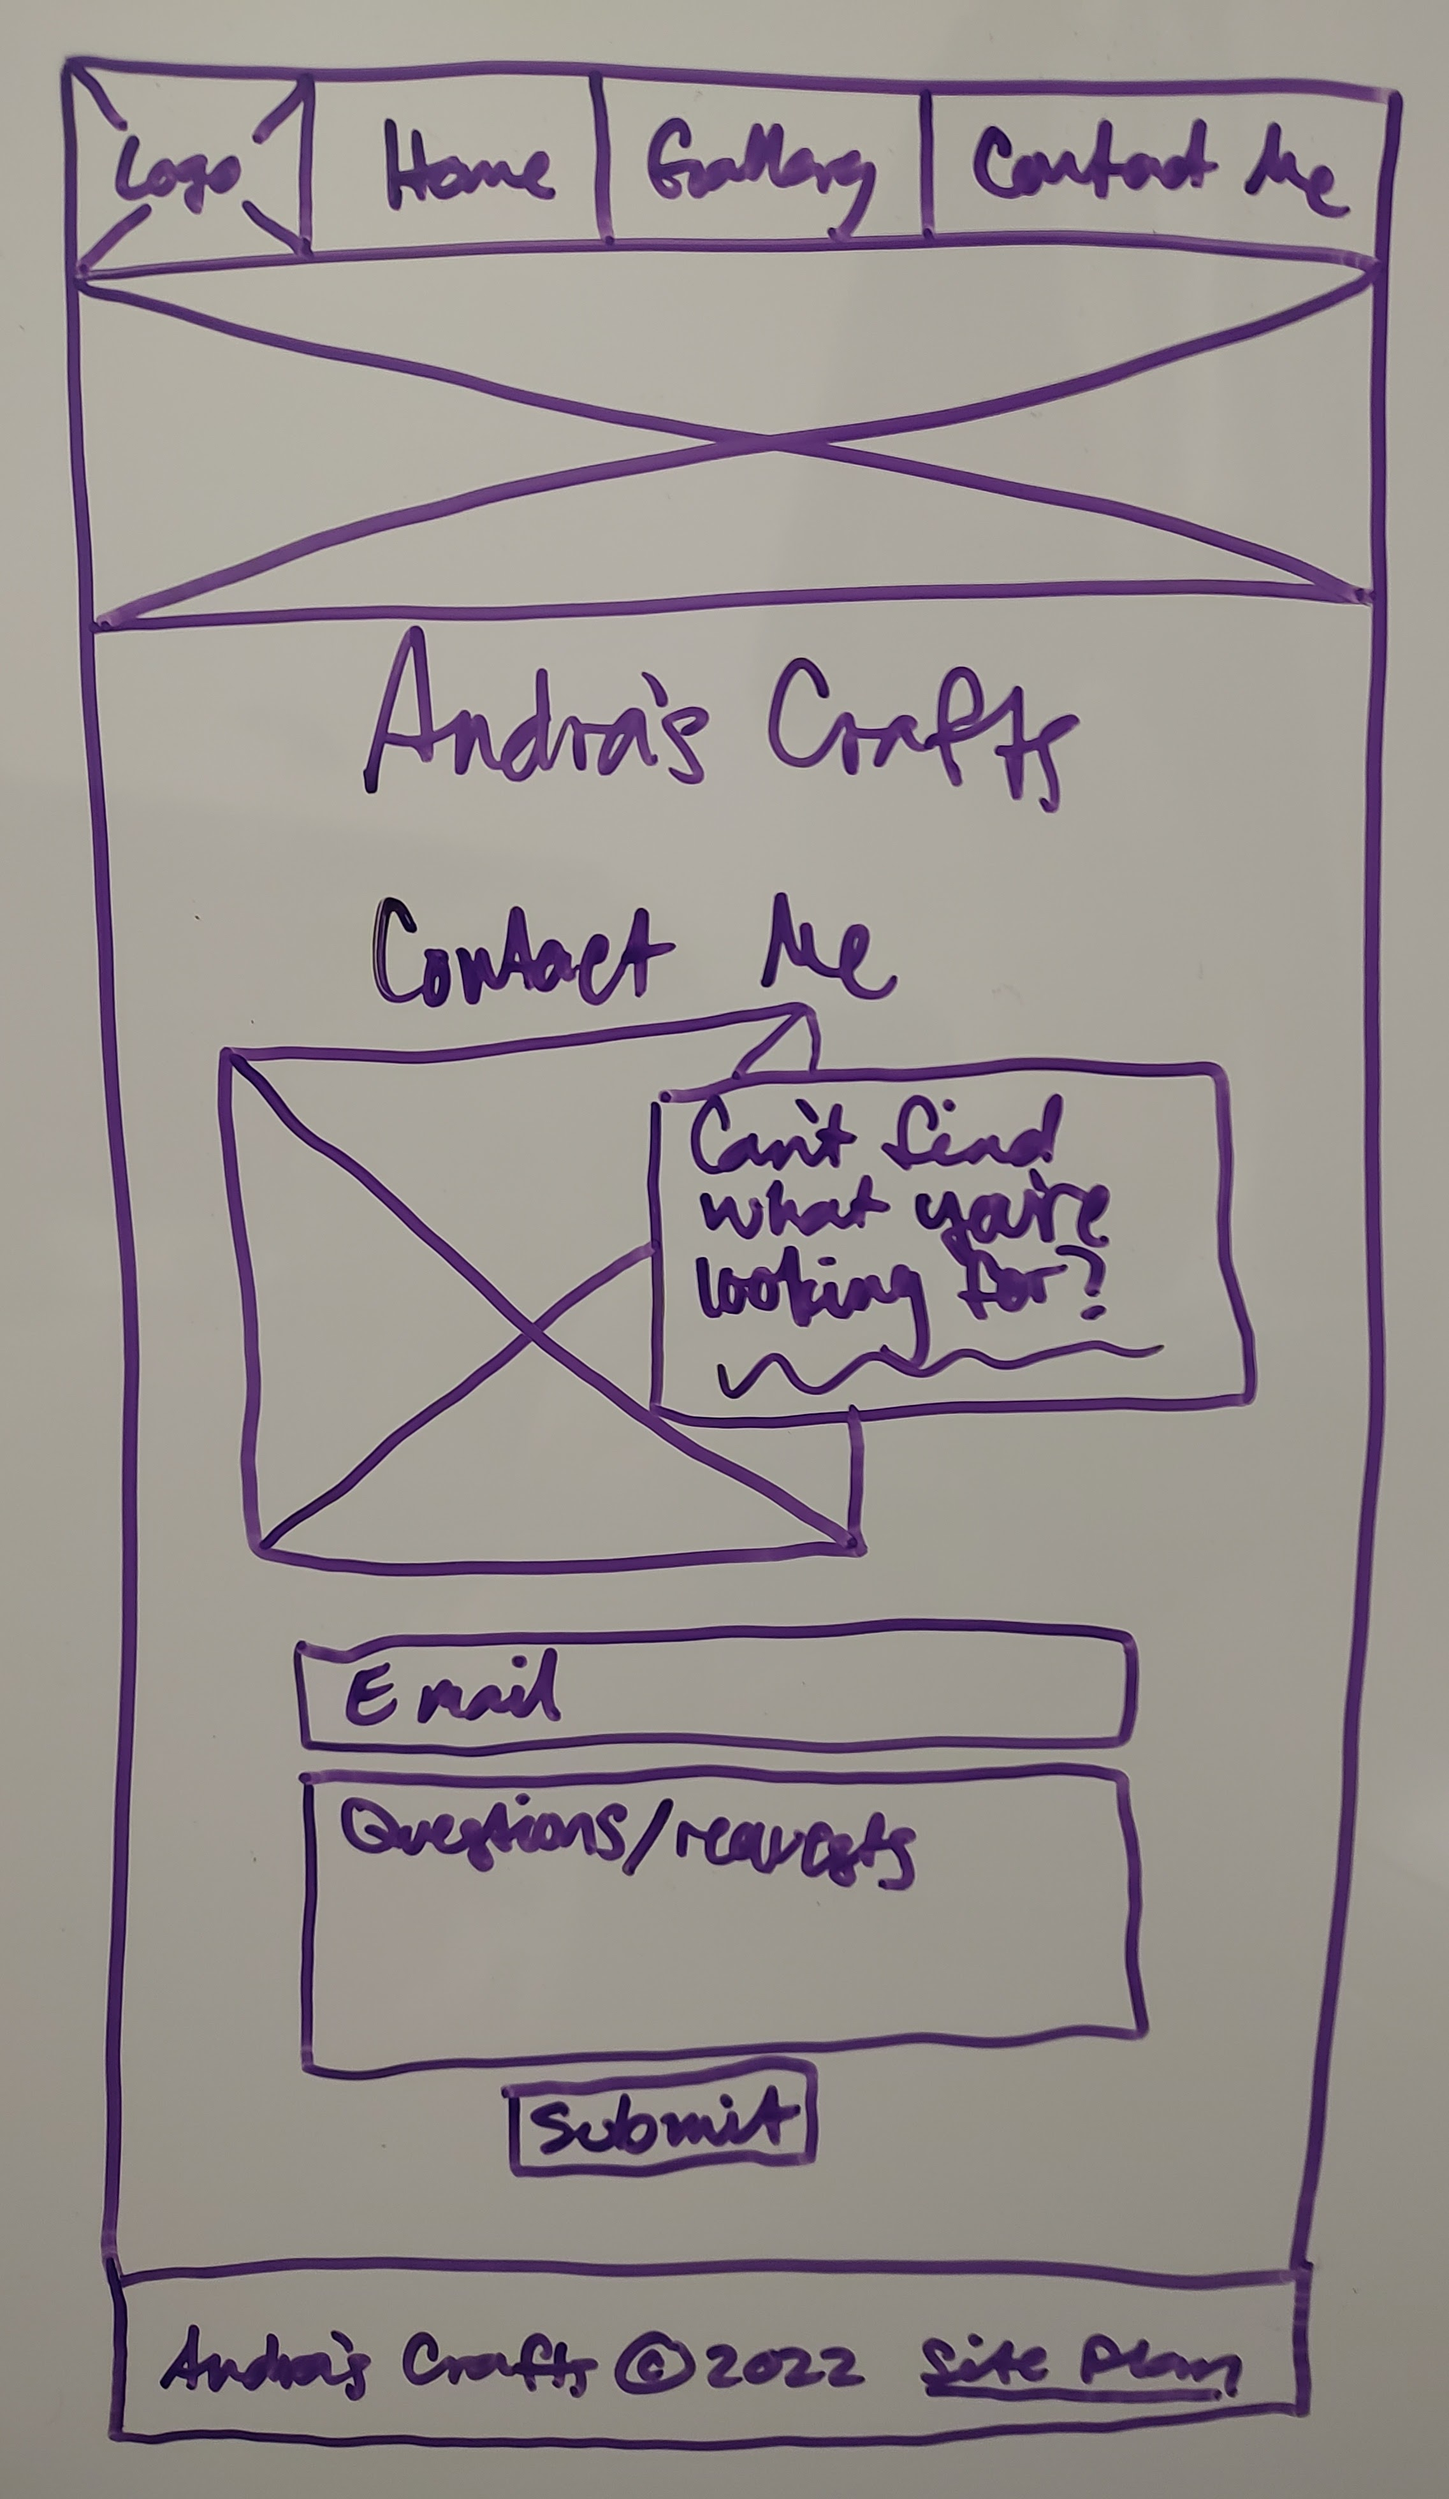
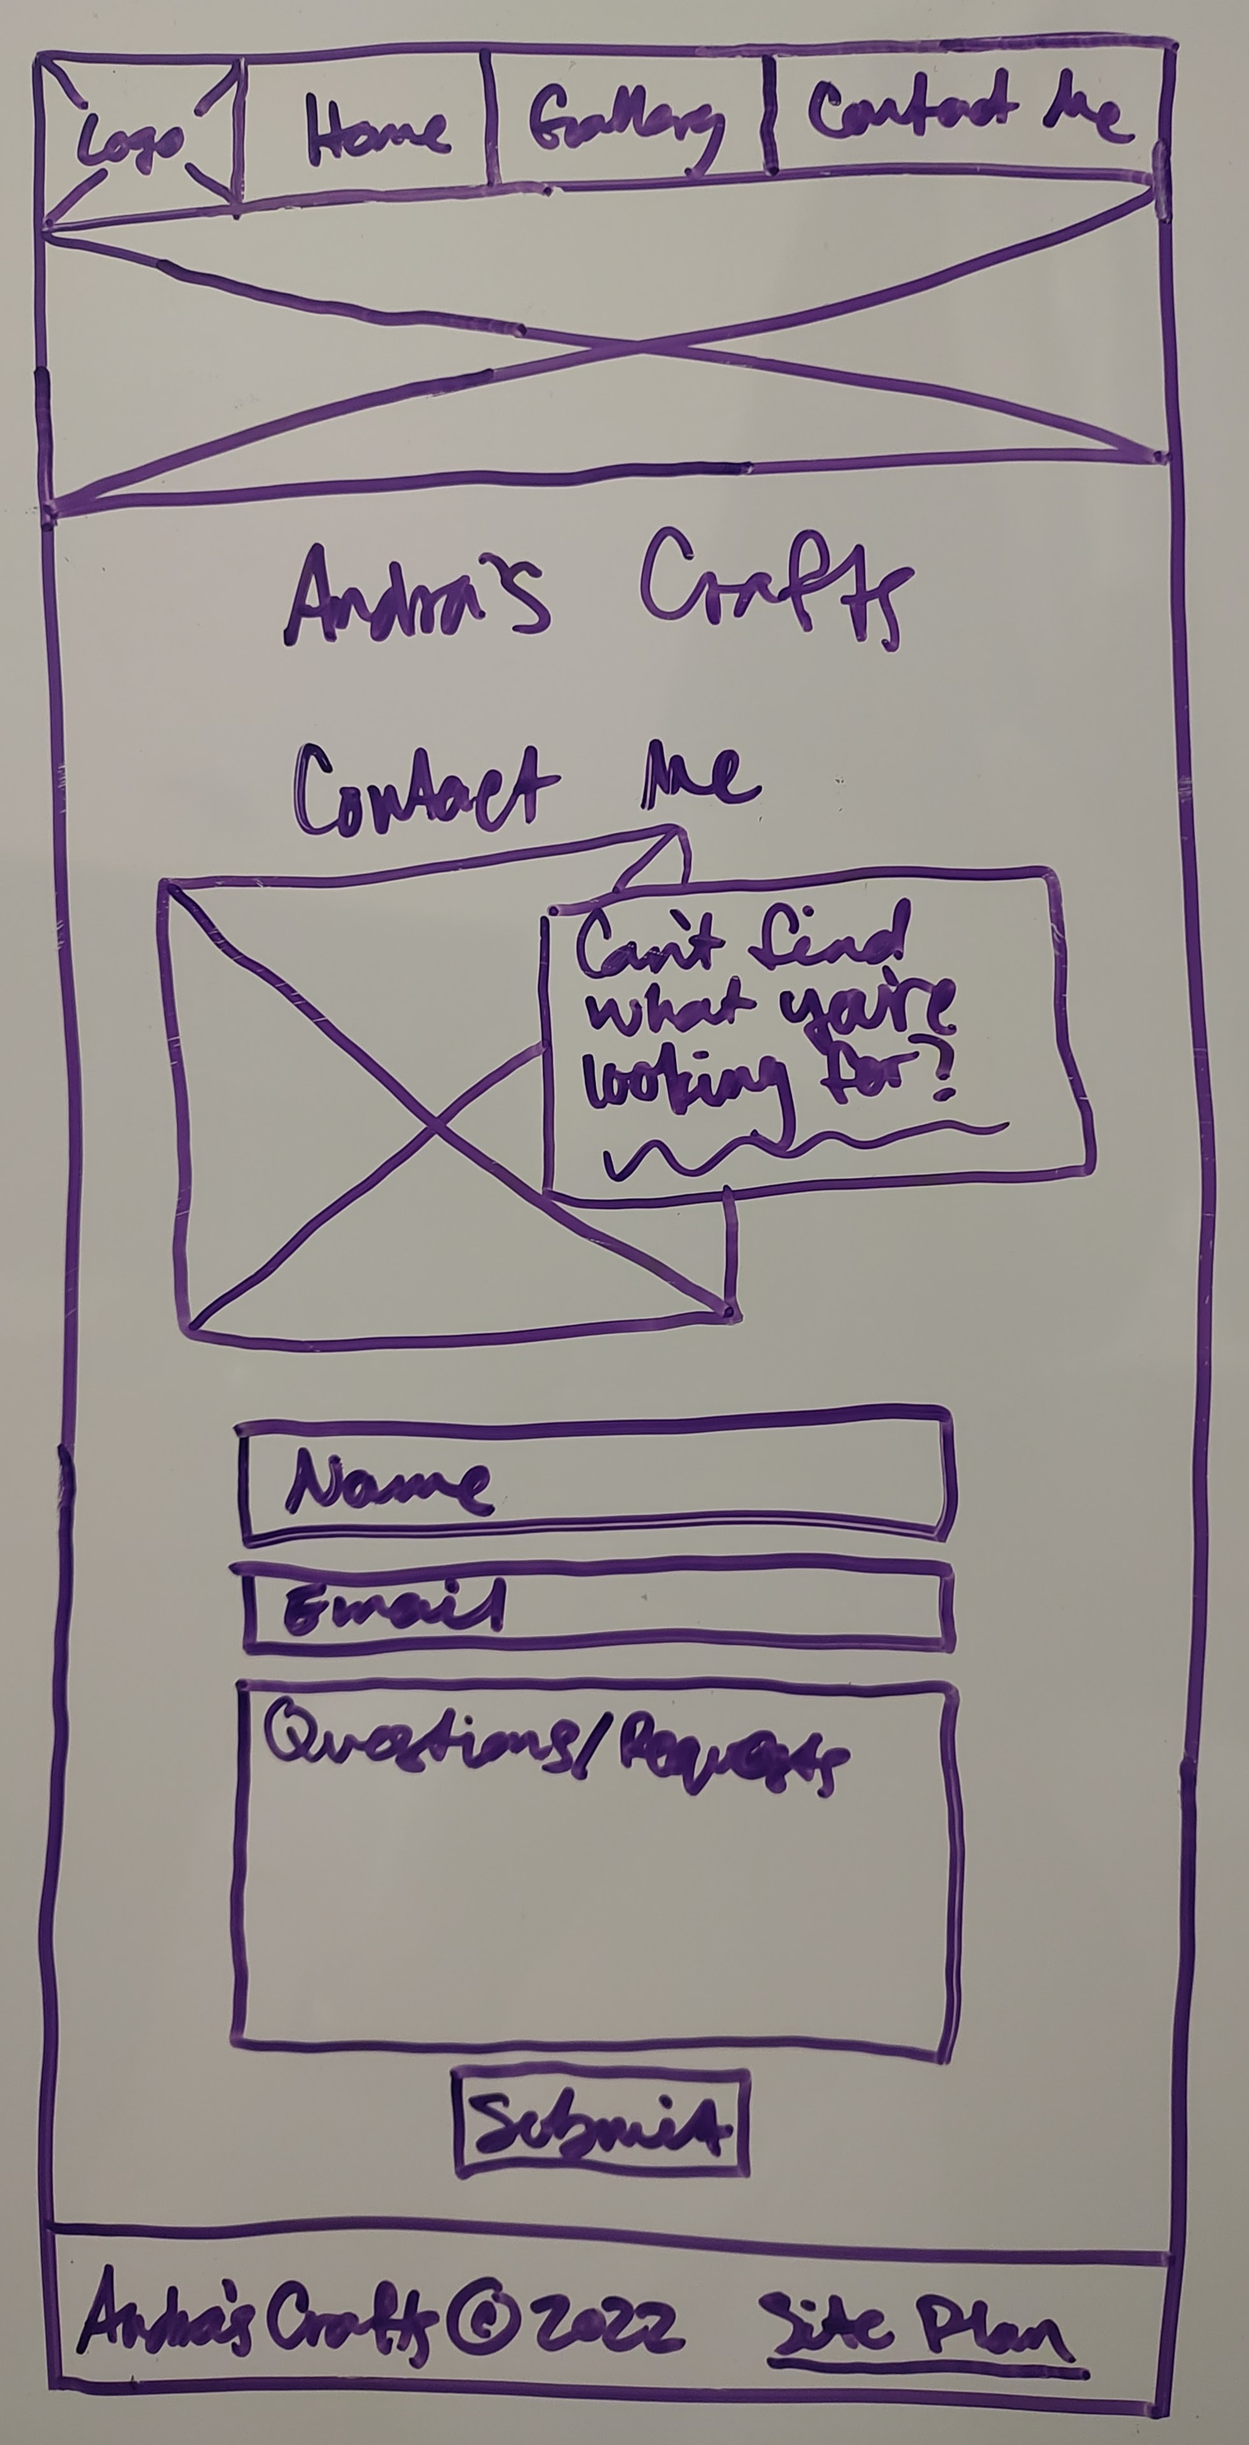
added personal site html

Changed region(s): [[0.0, 0.0, 0.9959, 0.9927]]

diff --git a/andras-crafts/gallery.html b/andras-crafts/gallery.html
@@ -1,0 +1,71 @@
+<!DOCTYPE html>
+<html lang="en">
+
+<head>
+    <meta charset="UTF-8">
+    <meta http-equiv="X-UA-Compatible" content="IE=edge">
+    <meta name="viewport" content="width=device-width, initial-scale=1.0">
+    <title>Andra's Crafts | Gallery</title>
+</head>
+
+<body>
+    <div id="content">
+        <header>
+            <a href="index.html" id="logo-link">
+                <img src="images/andras-crafts-logo.png" alt="Andra's Crafts logo">
+            </a>
+            <nav>
+                <a href="index.html">Home</a>
+                <a href="gallery.html">Gallery</a>
+                <a href="contact-me.html">Contact Me</a>
+            </nav>
+            <img id="banner-img" src="images/rainbow-yarn.jpg" alt="Rainbow of yarn banner">
+            <h1 id="title">Andra's Crafts</h1>
+        </header>
+        <main>
+            <h3 id="gallery-title">Product Gallery</h3>
+            <section id="reversible-gloves">
+                <img src="images/reversible-gloves.jpg" alt="Reversible gloves image">
+                <p>Reversible Gloves</p>
+            </section>
+            <section id="fingerless-gloves">
+                <img src="images/fingerless-gloves.jpg" alt="Fingerless gloves image">
+                <p>Fingerless Gloves</p>
+            </section>
+            <section id="pencil-case">
+                <img src="images/pencil-case.jpg" alt="Pencil case image">
+                <p>Pencil Case</p>
+            </section>
+            <section id="ponytail-bows">
+                <img src="images/ponytail-bows.jpg" alt="Ponytail bows image">
+                <p>Ponytail Bows</p>
+            </section>
+            <section id="christmas-earrings">
+                <img src="images/christmas-earrings.jpg" alt="Christmas earrings image">
+                <p>Christmas Earrings</p>
+            </section>
+            <section id="clover-earrings">
+                <img src="images/clover-earrings.jpg" alt="Clover earrings image">
+                <p>Clover Earrings</p>
+            </section>
+            <section id="heart-earrings">
+                <img src="images/heart-earrings.jpg" alt="Heart earrings image">
+                <p>Heart Earrings</p>
+            </section>
+            <section id="patriotic-earrings">
+                <img src="images/patriotic-earrings.jpg" alt="Patriotic earrings image">
+                <p>Patriotic Earrings</p>
+            </section>
+            <section id="tassel-earrings">
+                <img src="images/tassel-earrings.jpg" alt="Tassel earrings image">
+                <p>Tassel Earrings</p>
+            </section>
+        </main>
+        <footer>
+            <p>Andra's Crafts &copy; 2022</p>
+            <p><a href="site-plan.html">Site Plan</a></p>
+        </footer>
+    </div>
+</body>
+
+</html>

diff --git a/andras-crafts/contact-me.html b/andras-crafts/contact-me.html
@@ -1,0 +1,57 @@
+<!DOCTYPE html>
+<html lang="en">
+
+<head>
+    <meta charset="UTF-8">
+    <meta http-equiv="X-UA-Compatible" content="IE=edge">
+    <meta name="viewport" content="width=device-width, initial-scale=1.0">
+    <title>Andra's Crafts | Contact Me</title>
+</head>
+
+<body>
+    <div id="content">
+        <header>
+            <a href="index.html" id="logo-link">
+                <img src="images/andras-crafts-logo.png" alt="Andra's Crafts logo">
+            </a>
+            <nav>
+                <a href="index.html">Home</a>
+                <a href="gallery.html">Gallery</a>
+                <a href="contact-me.html">Contact Me</a>
+            </nav>
+            <img id="banner-img" src="images/rainbow-yarn.jpg" alt="Rainbow of yarn banner">
+            <h1 id="title">Andra's Crafts</h1>
+        </header>
+        <main>
+            <h3 id="contact-title">Contact Me</h3>
+            <div id="contact-msg">
+                <img src="images/yarn-wreath.jpg" alt="Wreath of yarn">
+                <h4>Can't find what you're looking for?</h4>
+                <h4>Have a specific request?</h4>
+                <h4>Let me know!</h4>
+            </div>
+            <form action="/andras-crafts/contact-me.html" method="post">
+                <ul>
+                    <li>
+                        <input type="text" id="name" name="user_name" value="Name">
+                    </li>
+                    <li>
+                        <input type="emial" id="mail" name="user_email" value="Email">
+                    </li>
+                    <li>
+                        <textarea id="msg" name="user_message">Questions/Requests</textarea>
+                    </li>
+                    <li class="button">
+                        <button type="submit">Submit</button>
+                    </li>
+                </ul>
+            </form>
+        </main>
+        <footer>
+            <p>Andra's Crafts &copy; 2022</p>
+            <p><a href="site-plan.html">Site Plan</a></p>
+        </footer>
+    </div>
+</body>
+
+</html>

diff --git a/andras-crafts/index.html b/andras-crafts/index.html
@@ -1,0 +1,44 @@
+<!DOCTYPE html>
+<html lang="en">
+
+<head>
+    <meta charset="UTF-8">
+    <meta http-equiv="X-UA-Compatible" content="IE=edge">
+    <meta name="viewport" content="width=device-width, initial-scale=1.0">
+    <title>Andra's Crafts | Home</title>
+</head>
+
+<body>
+    <div id="content">
+        <header>
+            <a href="index.html" id="logo-link">
+                <img src="images/andras-crafts-logo.png" alt="Andra's Crafts logo">
+            </a>
+            <nav>
+                <a href="index.html">Home</a>
+                <a href="gallery.html">Gallery</a>
+                <a href="contact-me.html">Contact Me</a>
+            </nav>
+            <img id="banner-img" src="images/rainbow-yarn.jpg" alt="Rainbow of yarn banner">
+            <h1 id="title">Andra's Crafts</h1>
+        </header>
+        <main>
+            <div id="welcome">
+                <h3>Welcome to Andra's Crafts!</h3>
+                <p>Here you will find just about any trinket you can think of, and patterns to make your own.</p>
+            </div>
+            <div id="about-me">
+                <img id="about-me-img" src="images/me.jpg" alt="A picture of me baking">
+                <h3>A little about me:</h3>
+                <p>I love to make everything from toys to food. I've loved to crochet and knit since I was little, and have
+                    recently started making my own patterns.</p>
+            </div>
+        </main>
+        <footer>
+            <p>Andra's Crafts &copy; 2022</p>
+            <p><a href="site-plan.html">Site Plan</a></p>
+        </footer>
+    </div>
+</body>
+
+</html>

diff --git a/index.html b/index.html
@@ -14,7 +14,7 @@
         <a href="wwr/index.html">White Water Rafting Website</a>
         <a href="wwr/site-plan-rafting.html">White Water Rafting Siteplan</a>
         <a href="positioning.html">Positioning Activity</a>
-        <a href="#">Personal Website</a>
+        <a href="andras-crafts/index.html">Personal Website</a>
         <a href="andras-crafts/site-plan.html">Personal Siteplan</a>
     </nav>
     <p>Andra Hale - WDD130</p>
